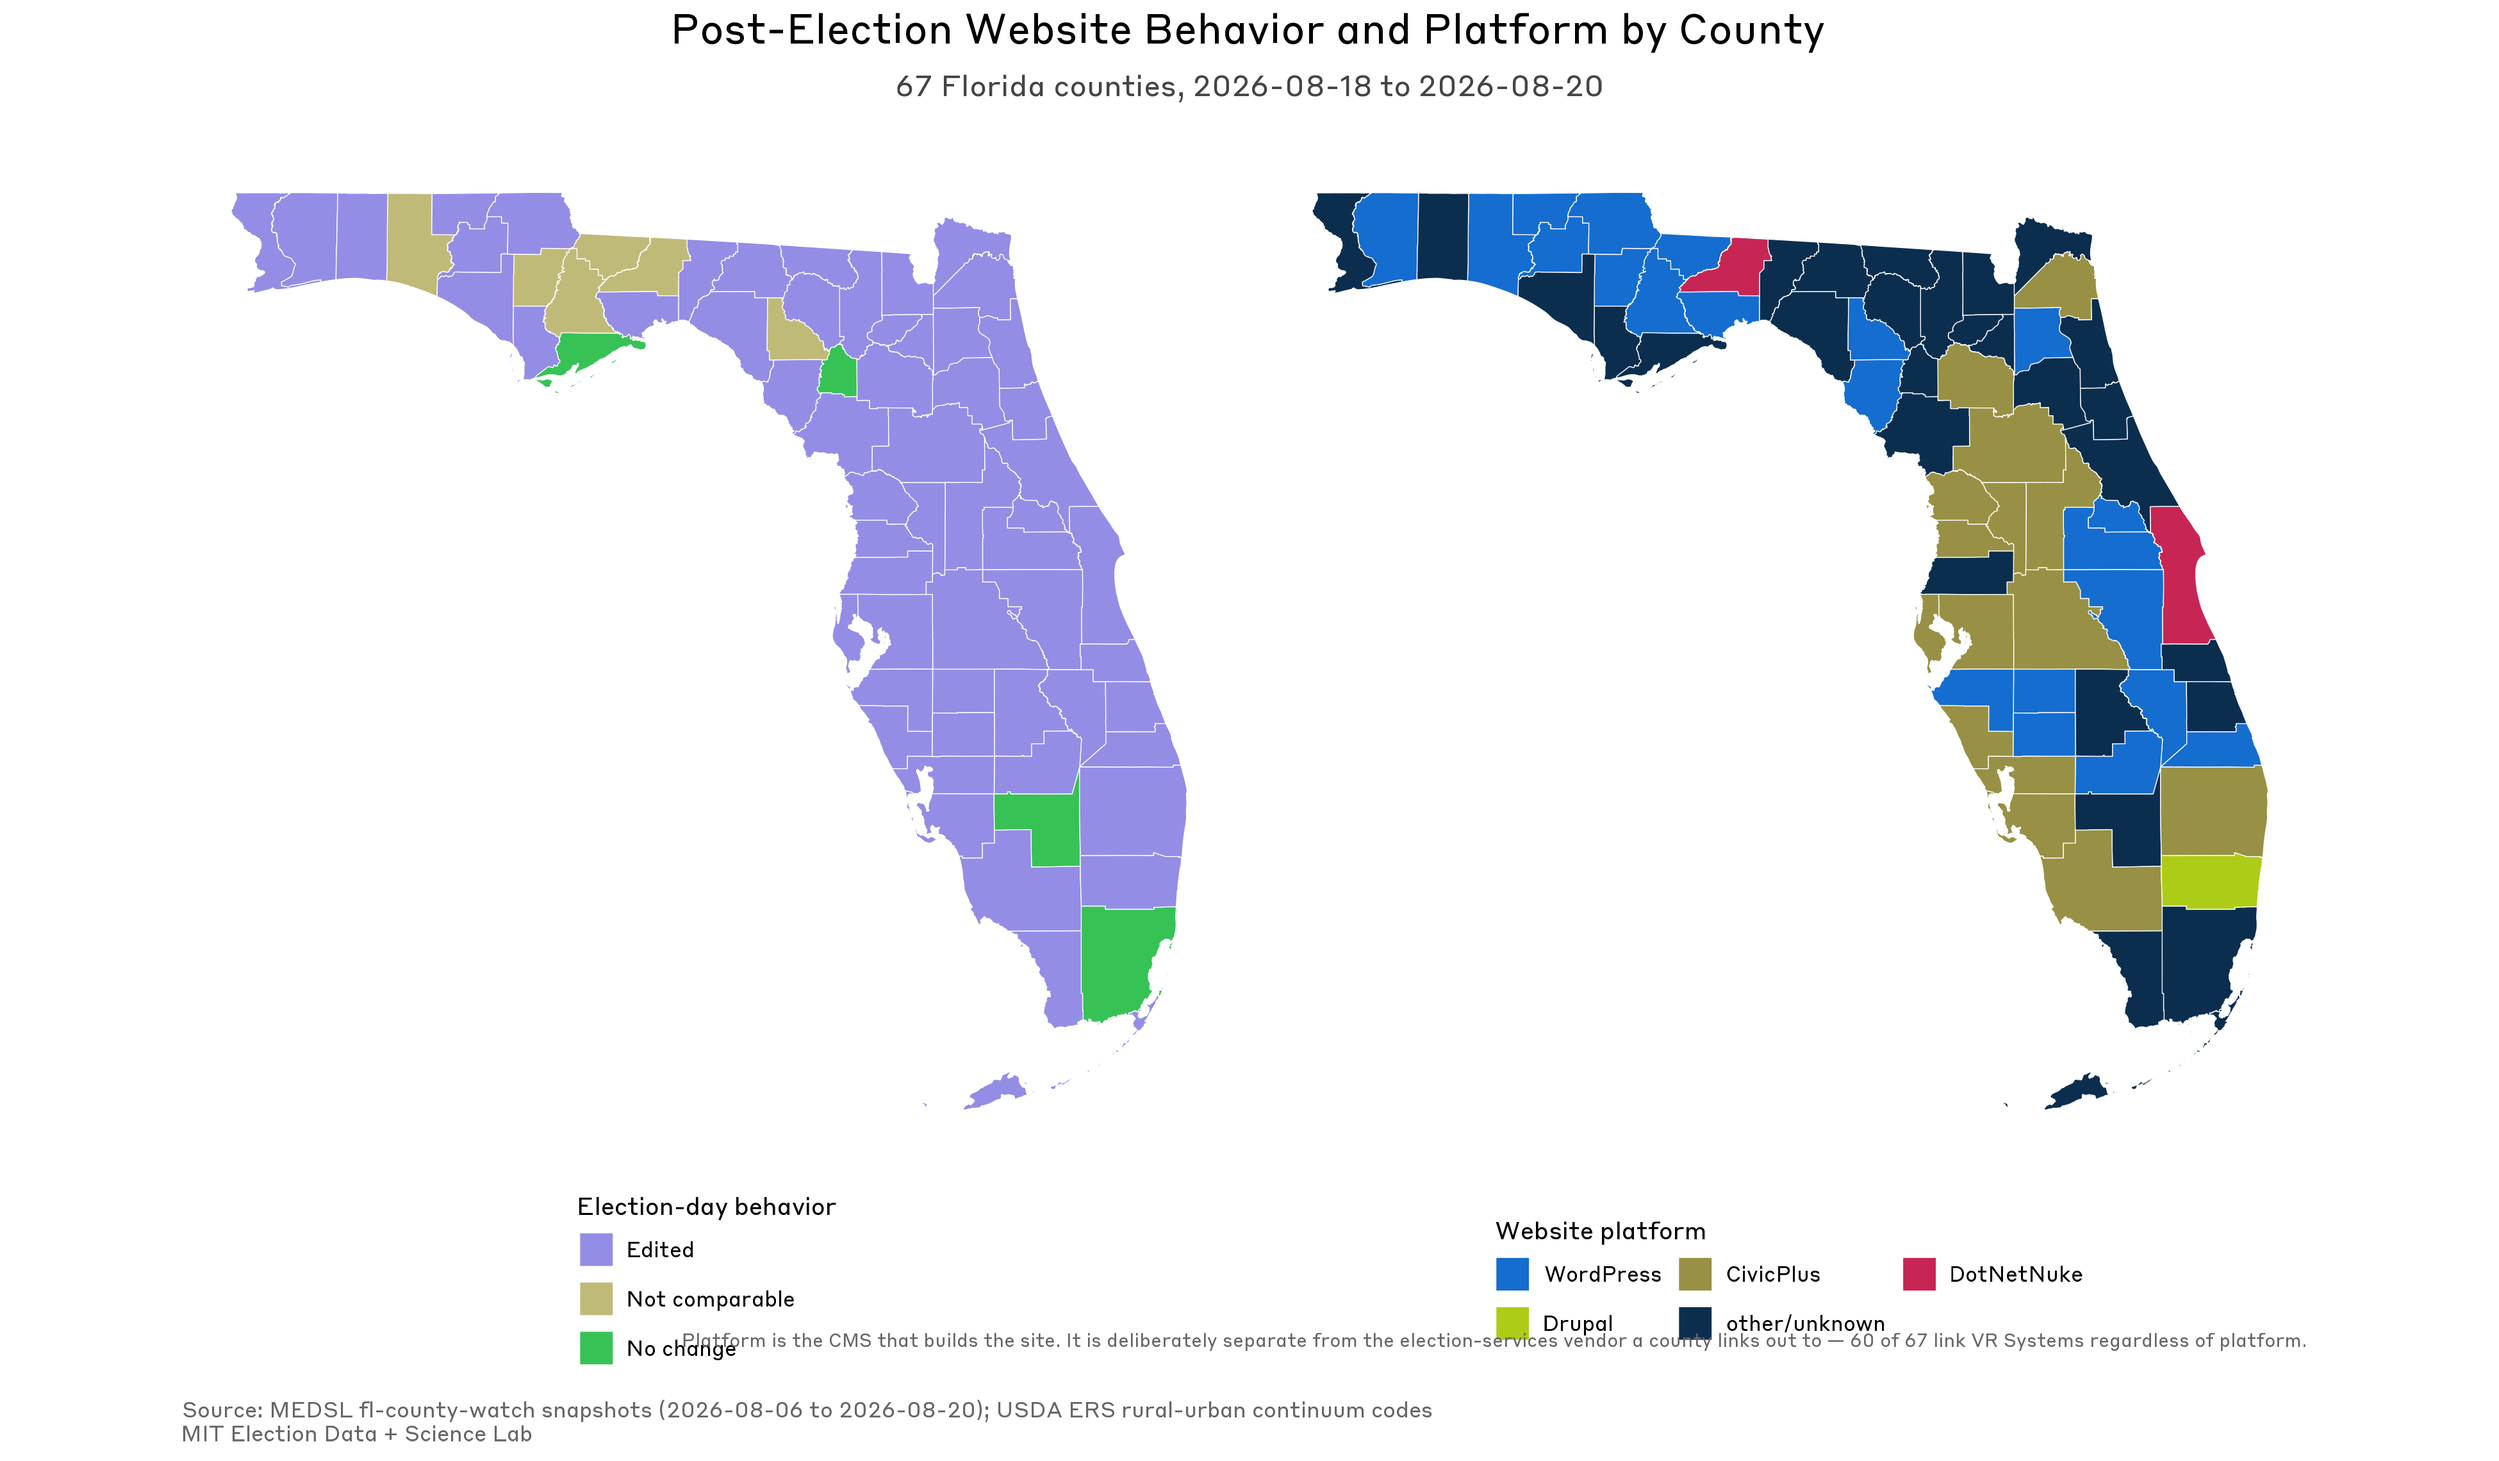
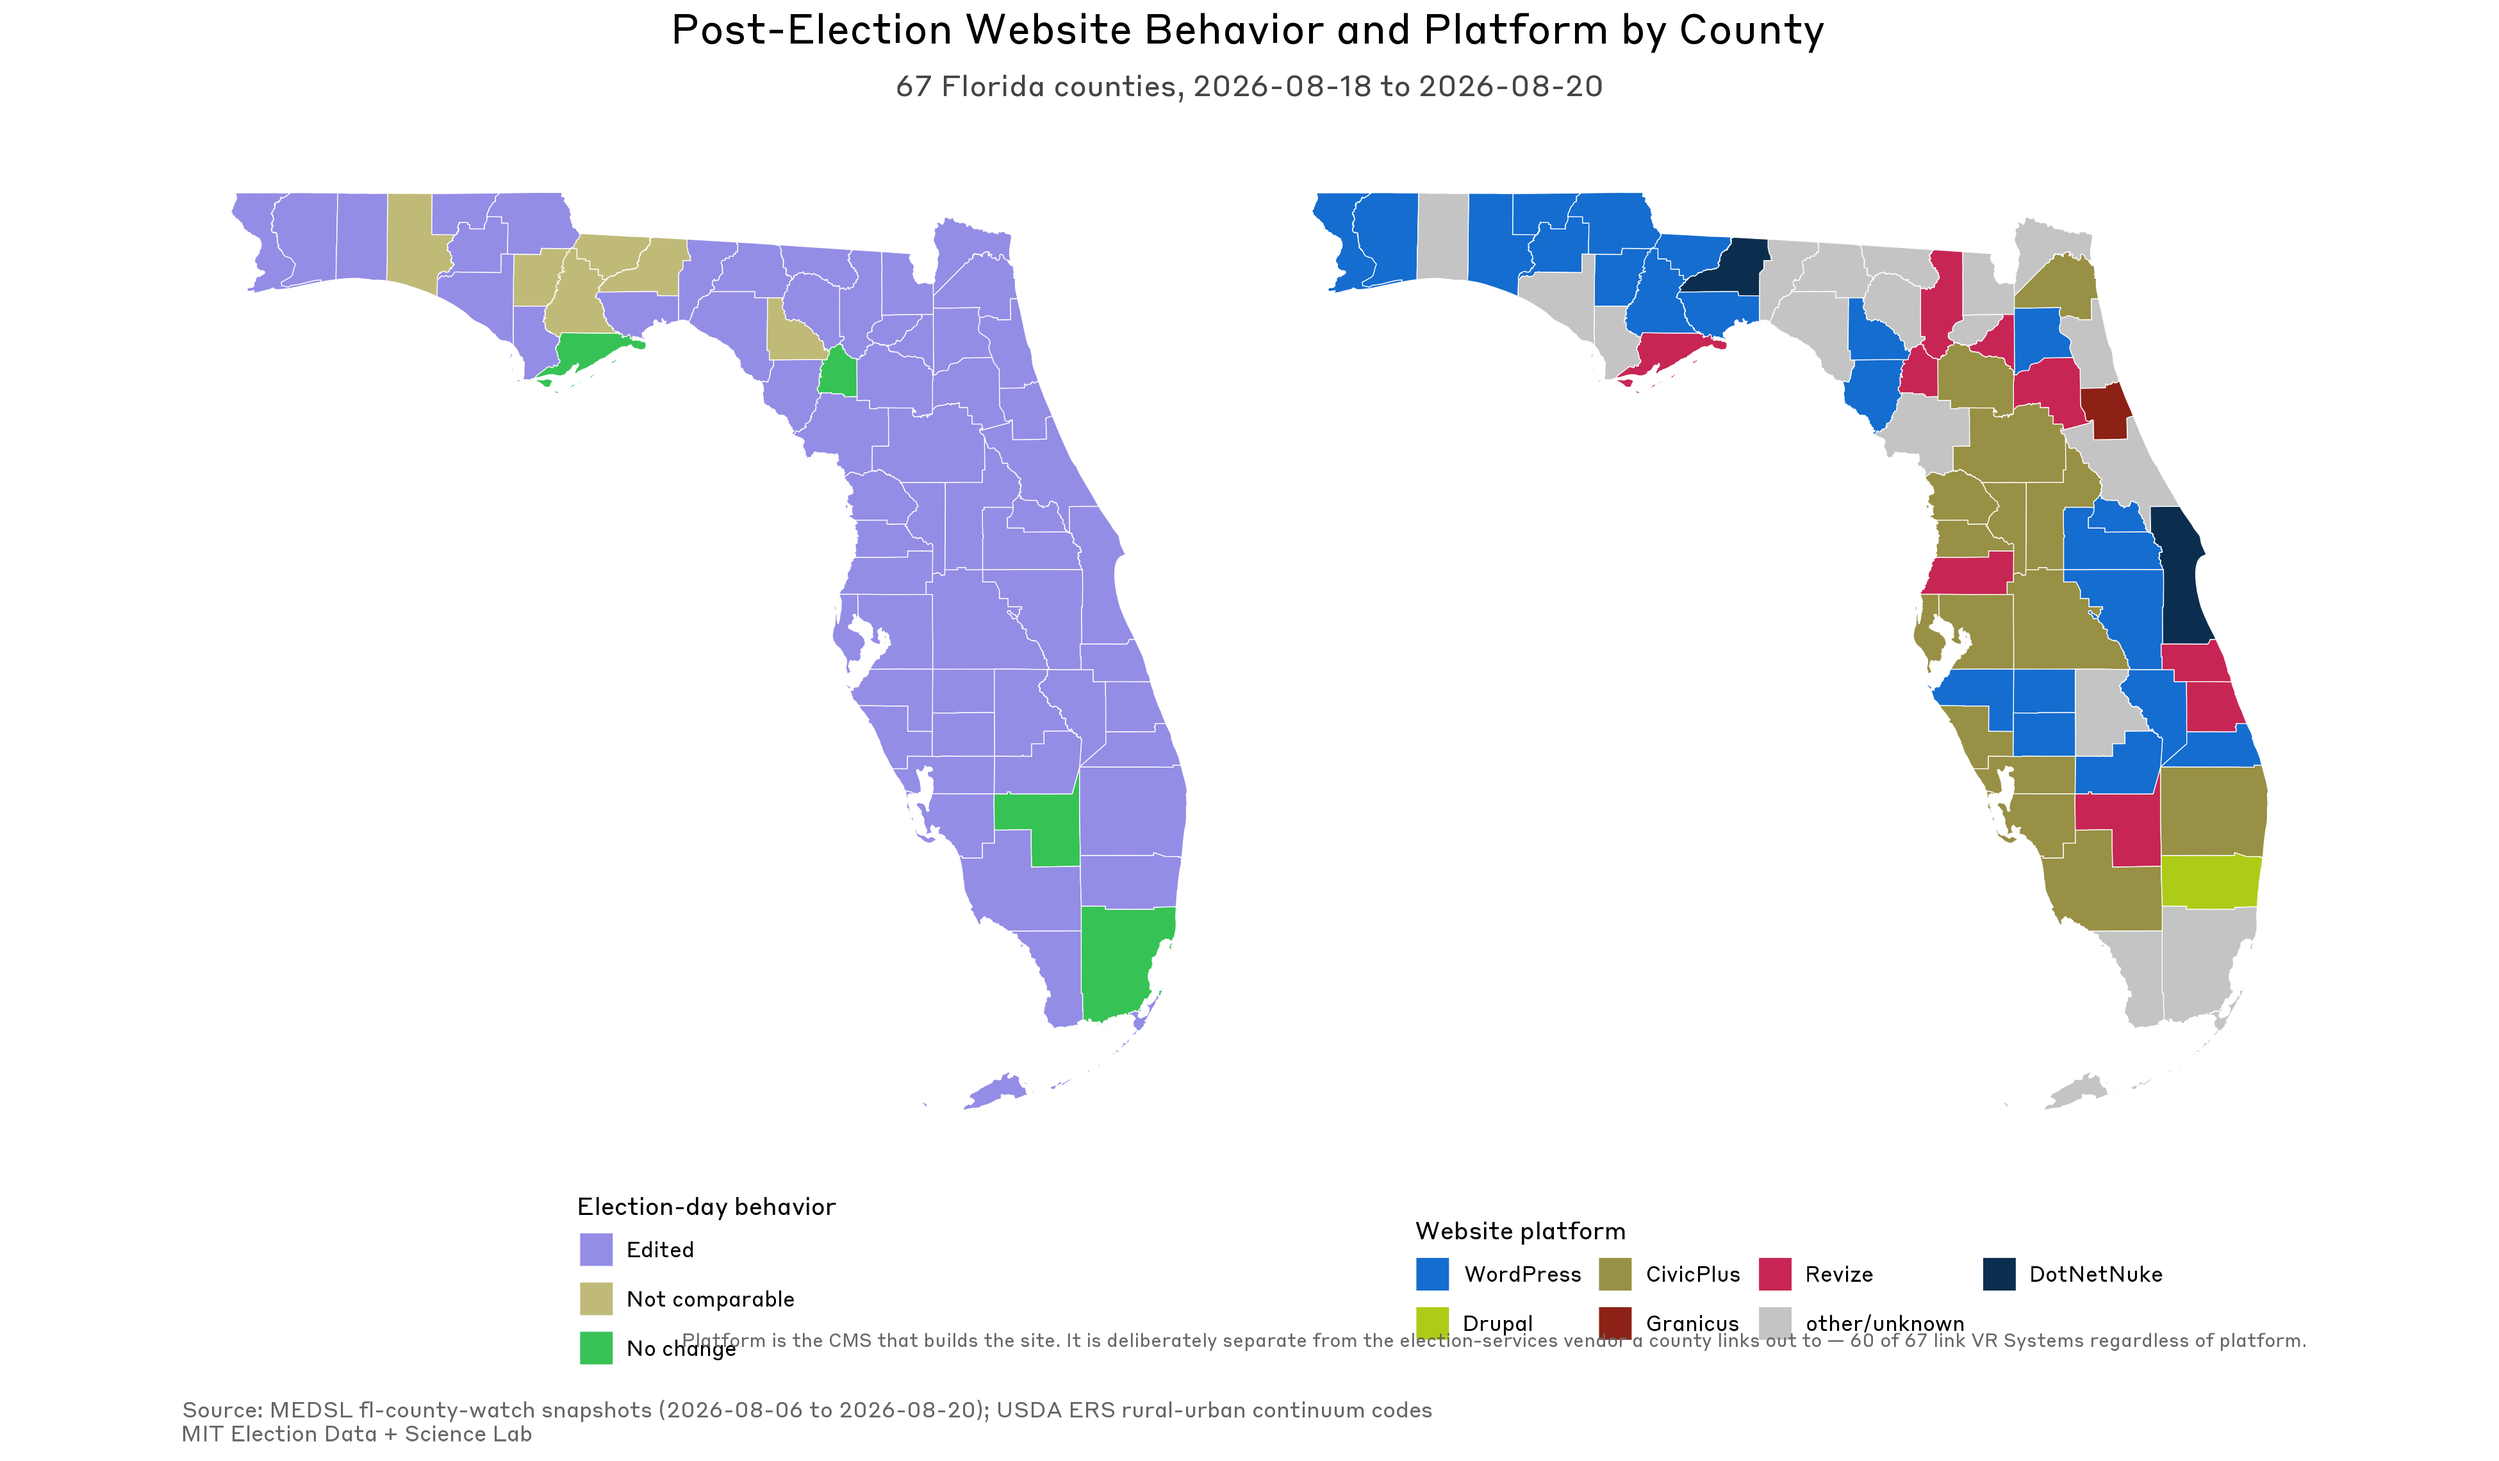
platform detection: add Revize/Granicus, match relative wp- asset paths; fix NA levels

diff --git a/scripts/build_county_attributes.py b/scripts/build_county_attributes.py
@@ -68,10 +68,16 @@ def detect_platform(county: str) -> str:
     classification churned whenever a county's outbound links changed.
 
     Platform and service dependence are two different variables, so they are
-    detected separately now. Note `other/unknown` is large (~28): normalize.py
-    strips stylesheet links, which removes the wp-content/themes path that would
-    otherwise name the builder. Identifying it would need a fetch-time capture,
-    not a post-hoc read of the normalized artifact.
+    detected separately now.
+
+    A second correction: an earlier version of this comment blamed a large
+    `other/unknown` bucket on normalize.py stripping stylesheet links. That was
+    wrong — comparing the normalized artifact against a raw fetch showed the tells
+    survive normalization intact. The bucket was the detector's own fault, twice
+    over: Revize and Granicus (both common county-government CMS vendors) were
+    missing from the list entirely, and the WordPress test required an ABSOLUTE
+    asset URL on the county's own host, so sites referencing /wp-includes/ by
+    relative path or from a CDN were missed.
     """
     slug = county.lower().replace(" ", "_")
     d = ROOT / "snapshots" / slug / "homepage"
@@ -84,18 +90,28 @@ def detect_platform(county: str) -> str:
     m = re.search(r'<meta[^>]+name="generator"[^>]+content="([^"]{0,60})', html, re.I)
     gen = (m.group(1).lower() if m else "")
 
-    if "wordpress" in gen or re.search(
-            r"https?://(?:www\.|static\.)?" + re.escape(host) + r"/wp-(?:content|includes)",
-            low):
+    # Vendor-named tells first: these are unambiguous and name the builder outright.
+    for needle, name in (("revize", "Revize"), ("granicus", "Granicus"),
+                         ("civicplus", "CivicPlus"), ("civicengage", "CivicPlus"),
+                         ("govoffice", "GovOffice"), ("streamline", "Streamline"),
+                         ("squarespace", "Squarespace"), ("wixstatic", "Wix"),
+                         ("/desktopmodules/", "DotNetNuke")):
+        if needle in low:
+            return name
+    if "wordpress" in gen:
         return "WordPress"
-    if "civicplus" in low or "civicengage" in low or re.search(r'href="/\d{3}/[A-Za-z]', html):
-        return "CivicPlus"
-    if "/desktopmodules/" in low or "dnn" in gen:
-        return "DotNetNuke"
-    if "drupal" in gen or "drupal" in low:
+    # WordPress asset paths, matched relative OR host-absolute. Anchoring to the
+    # county's own host (the earlier behaviour) missed every site that references
+    # /wp-includes/ by relative path or serves assets from a CDN.
+    if re.search(r'["\'(]\s*(?:https?://[^"\')]{0,80})?/?wp-(?:content|includes|json)/',
+                 low):
+        return "WordPress"
+    if "drupal" in gen or "/sites/default/files" in low or "drupal" in low:
         return "Drupal"
-    if "joomla" in gen:
+    if "joomla" in gen or "/media/jui/" in low:
         return "Joomla"
+    if re.search(r'href="/\d{3}/[A-Za-z]', html):
+        return "CivicPlus"
     return "other/unknown"
 
 
